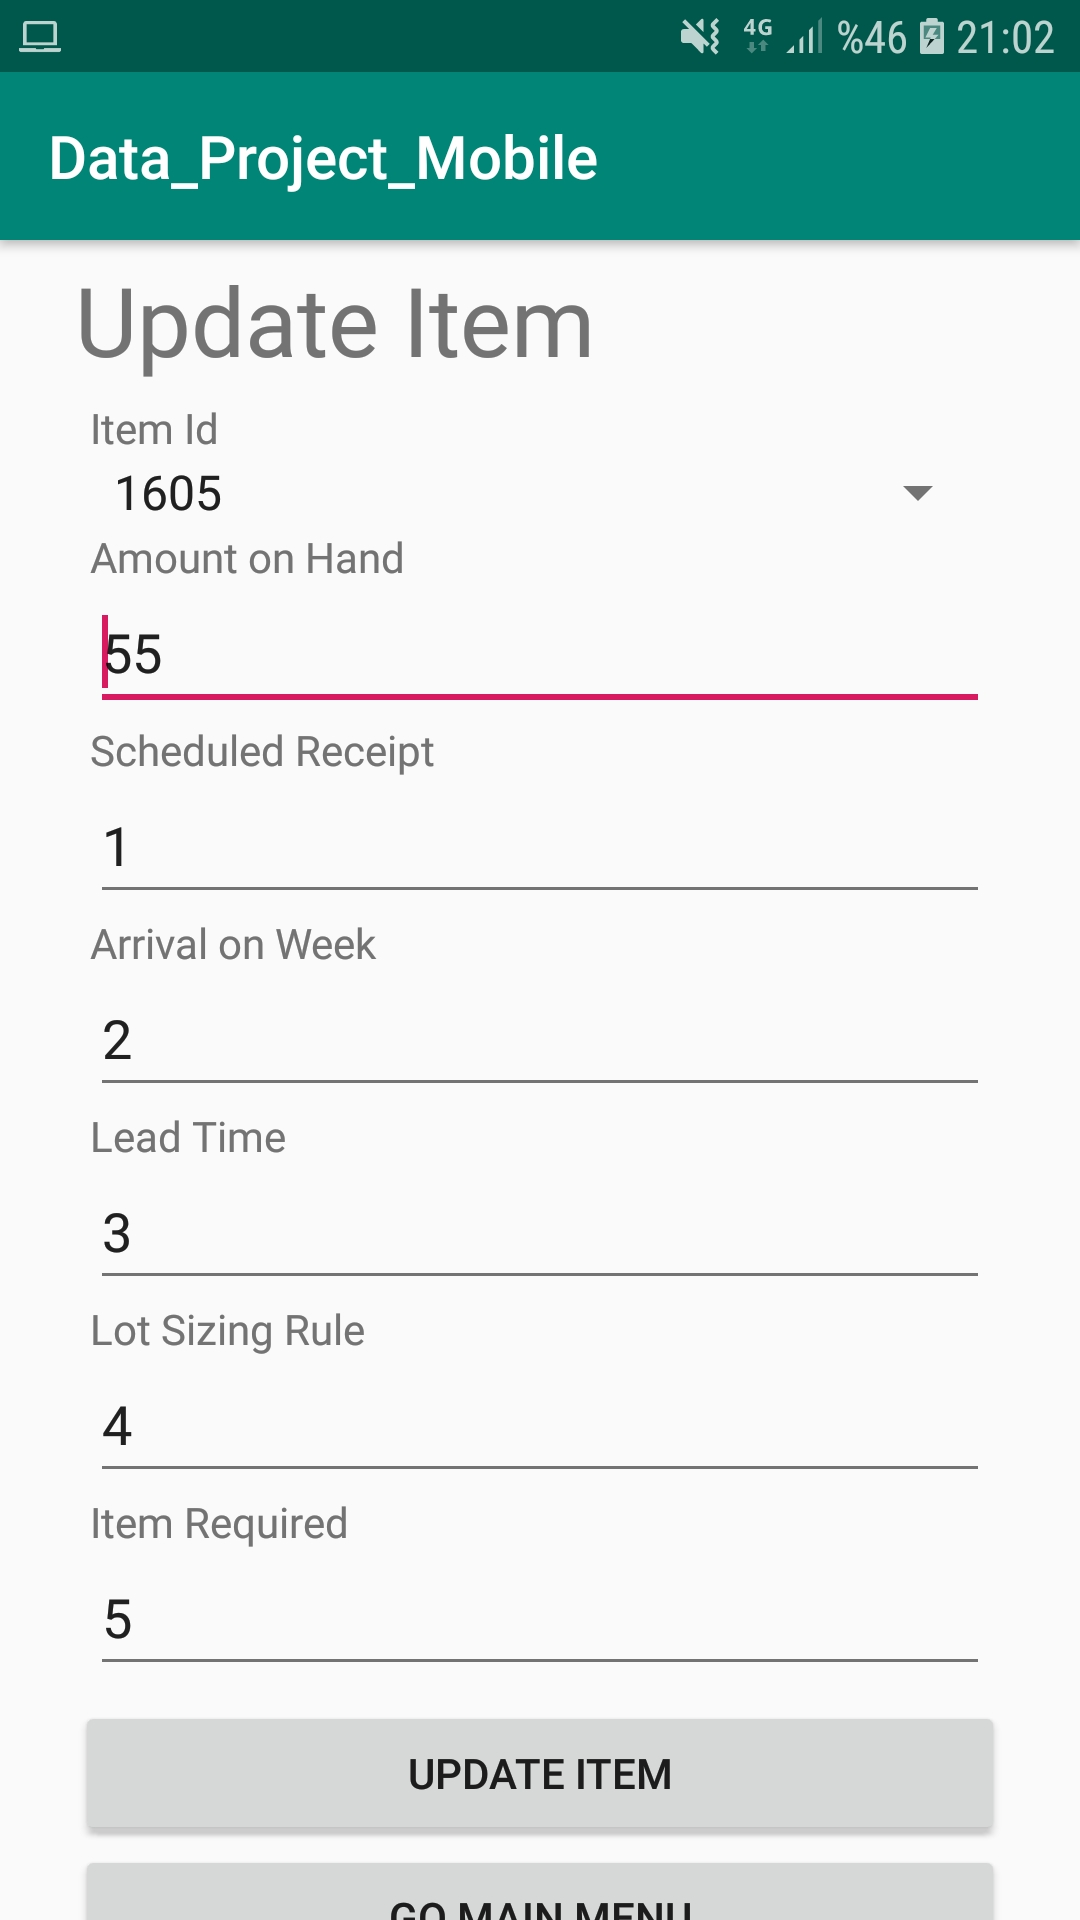
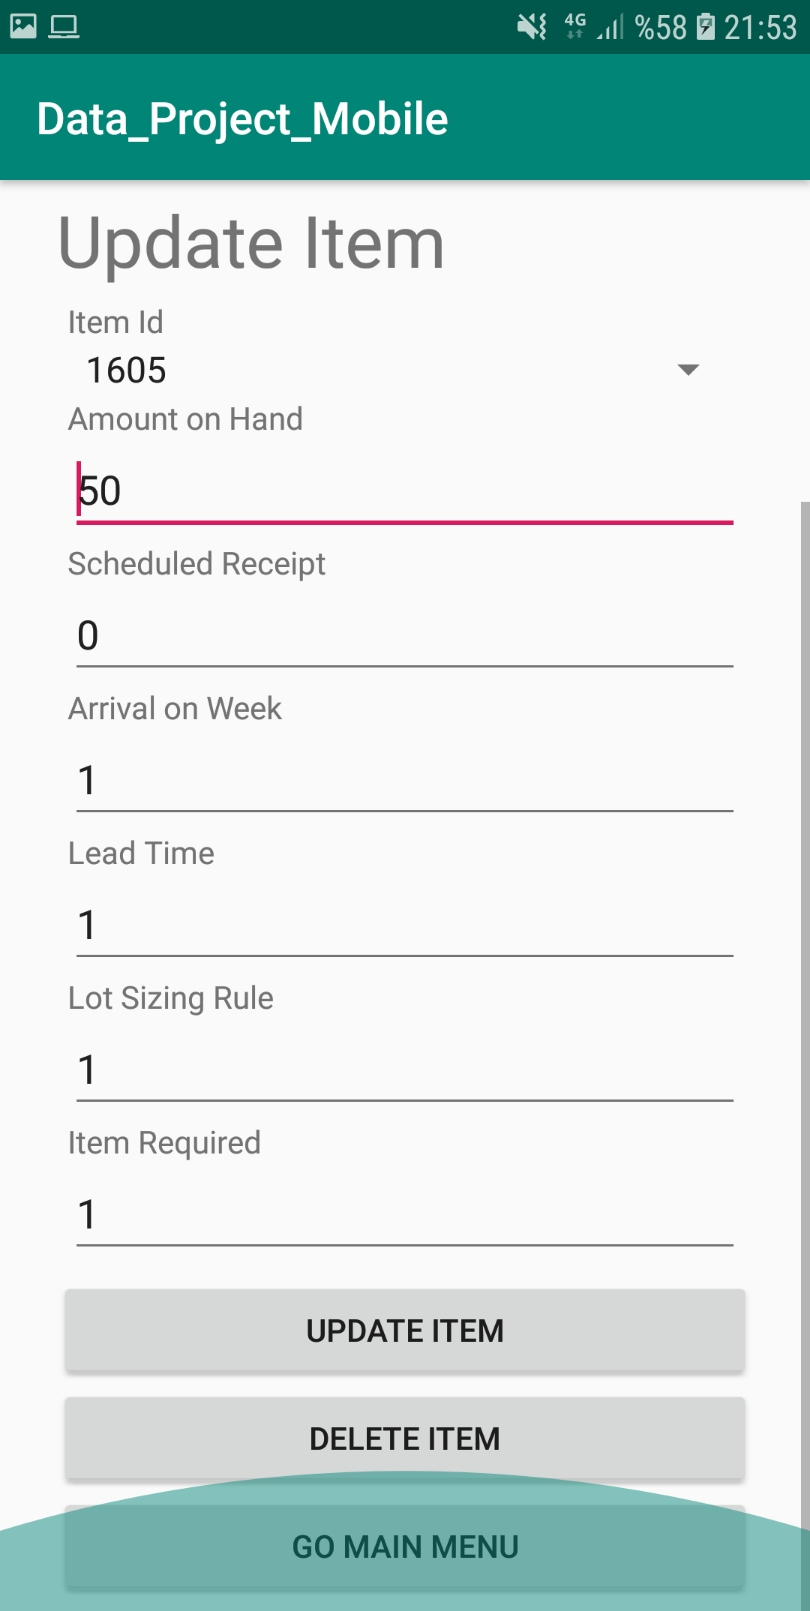
Item Deletion Added

Changed region(s): [[0.0, 0.0, 1.0, 1.0], [0.8333, 0.2173, 0.8642, 0.2793]]

diff --git a/Data_Project_Mobile/app/src/main/java/com/tohandesign/data_project_mobile/UpdItemActivity.java b/Data_Project_Mobile/app/src/main/java/com/tohandesign/data_project_mobile/UpdItemActivity.java
@@ -2,6 +2,8 @@ package com.tohandesign.data_project_mobile;
 
 import androidx.appcompat.app.AppCompatActivity;
 
+import android.app.AlertDialog;
+import android.content.DialogInterface;
 import android.content.Intent;
 import android.os.Bundle;
 import android.util.Log;
@@ -11,6 +13,7 @@ import android.widget.ArrayAdapter;
 import android.widget.Button;
 import android.widget.EditText;
 import android.widget.Spinner;
+import android.widget.Toast;
 
 import java.util.List;
 
@@ -24,6 +27,8 @@ public class UpdItemActivity extends AppCompatActivity {
 
     public String itemIds[];
 
+    AlertDialog.Builder builder;
+
 
     @Override
     protected void onCreate(Bundle savedInstanceState) {
@@ -31,7 +36,7 @@ public class UpdItemActivity extends AppCompatActivity {
         setContentView(R.layout.activity_upd_item);
 
         db = new DatabaseHelper(getApplicationContext());
-
+        builder = new AlertDialog.Builder(this);
 
         final EditText KEY_AON_HAND = (EditText)findViewById(R.id.KEY_AON_HAND);
         final EditText KEY_SCH_RCP = (EditText)findViewById(R.id.KEY_SCH_RCP);
@@ -102,6 +107,46 @@ public class UpdItemActivity extends AppCompatActivity {
         });
 
 
+        Button delItem = (Button)findViewById(R.id.delItem);
+
+        delItem.setOnClickListener(new View.OnClickListener() {
+            @Override
+            public void onClick(View view) {
+
+                if(MAIN_ITEM_ID != null) {
+                    String title = "Delete Item";
+                    String msg = "If you delete the item, all of its sub-items are also deleted. \n" +
+                            "Are you sure you want to delete the item?";
+
+                    //Setting message manually and performing action on button click
+                    builder.setMessage(msg)
+                            .setTitle(title)
+                            .setCancelable(false)
+                            .setPositiveButton("Yes", new DialogInterface.OnClickListener() {
+                                public void onClick(DialogInterface dialog, int id) {
+                                    finish();
+                                    db.deleteItem(MAIN_ITEM_ID);
+                                    Toast.makeText(getApplicationContext(),"The item and sub items you selected have been deleted",
+                                            Toast.LENGTH_SHORT).show();
+                                }
+                            })
+                            .setNegativeButton("No", new DialogInterface.OnClickListener() {
+                                public void onClick(DialogInterface dialog, int id) {
+                                    //  Action for 'NO' Button
+                                    dialog.cancel();
+                                    Toast.makeText(getApplicationContext(),"Nothing was deleted",
+                                            Toast.LENGTH_SHORT).show();
+                                }
+                            });
+                    //Creating dialog box
+                    AlertDialog alert = builder.create();
+                    alert.show();
+                } else {
+                    Toast.makeText(getApplicationContext(),"Nothing was selected",
+                            Toast.LENGTH_SHORT).show();
+                }
+            }
+        });
 
 
         intent = new Intent(this, MainActivity.class);

diff --git a/Data_Project_Mobile/app/src/main/java/com/tohandesign/data_project_mobile/DatabaseHelper.java b/Data_Project_Mobile/app/src/main/java/com/tohandesign/data_project_mobile/DatabaseHelper.java
@@ -285,6 +285,23 @@ public class DatabaseHelper extends SQLiteOpenHelper {
     //#Updating Item
 
 
+    //Deleting item
+    public void deleteItem(long item_id) {
+        SQLiteDatabase db = this.getWritableDatabase();
+        db.delete(TABLE_ITEM, KEY_ITEM_ID + " = ?",
+                new String[] { String.valueOf(item_id) });
+
+        List<Long> childs = getChilds(item_id);
+        for(Long lg : childs) {
+            deleteItem(lg);
+        }
+        db.delete(TABLE_CHILDS, KEY_MAIN_ITEM_ID + " = ?",
+                new String[] { String.valueOf(item_id) });
+
+    }
+    //Deleting item
+
+
     // closing database
     public void closeDB() {
         SQLiteDatabase db = this.getReadableDatabase();

diff --git a/README.md b/README.md
@@ -2,6 +2,7 @@
 
 
 
+
 #  Advanced Mobile Inventory System <img src="http://img.shields.io/badge/-Java-F89820?style=flat&logo=java&logoColor=white">
 
 <img src = "/images/1.jpg" height="20%" width="20%"><img src = "/images/2.jpg" height="20%" width="20%"><img src = "/images/3.jpg" height="20%" width="20%"><img src = "/images/4.jpg" height="20%" width="20%"><img src = "/images/5.jpg" height="20%" width="20%">
@@ -48,6 +49,11 @@ When the button is pressed, the product updating page opens and when you fill in
 >  Required fields are automatically filled according to the value you choose in the spinner
 
 <br/><img src = "/images/5.jpg" height="30%" width="30%">
+#### "Delete Item" Button
+
+When the button is pressed, if there is a value in the spinner, the delete dialog box opens. If you delete the item, all of its sub-items are also deleted.
+<br/><img src = "/images/6.jpg" height="30%" width="30%">
+
 
 ### "CLEAR DATABASE" button
 When the button is pressed, it deletes all records in the system.
